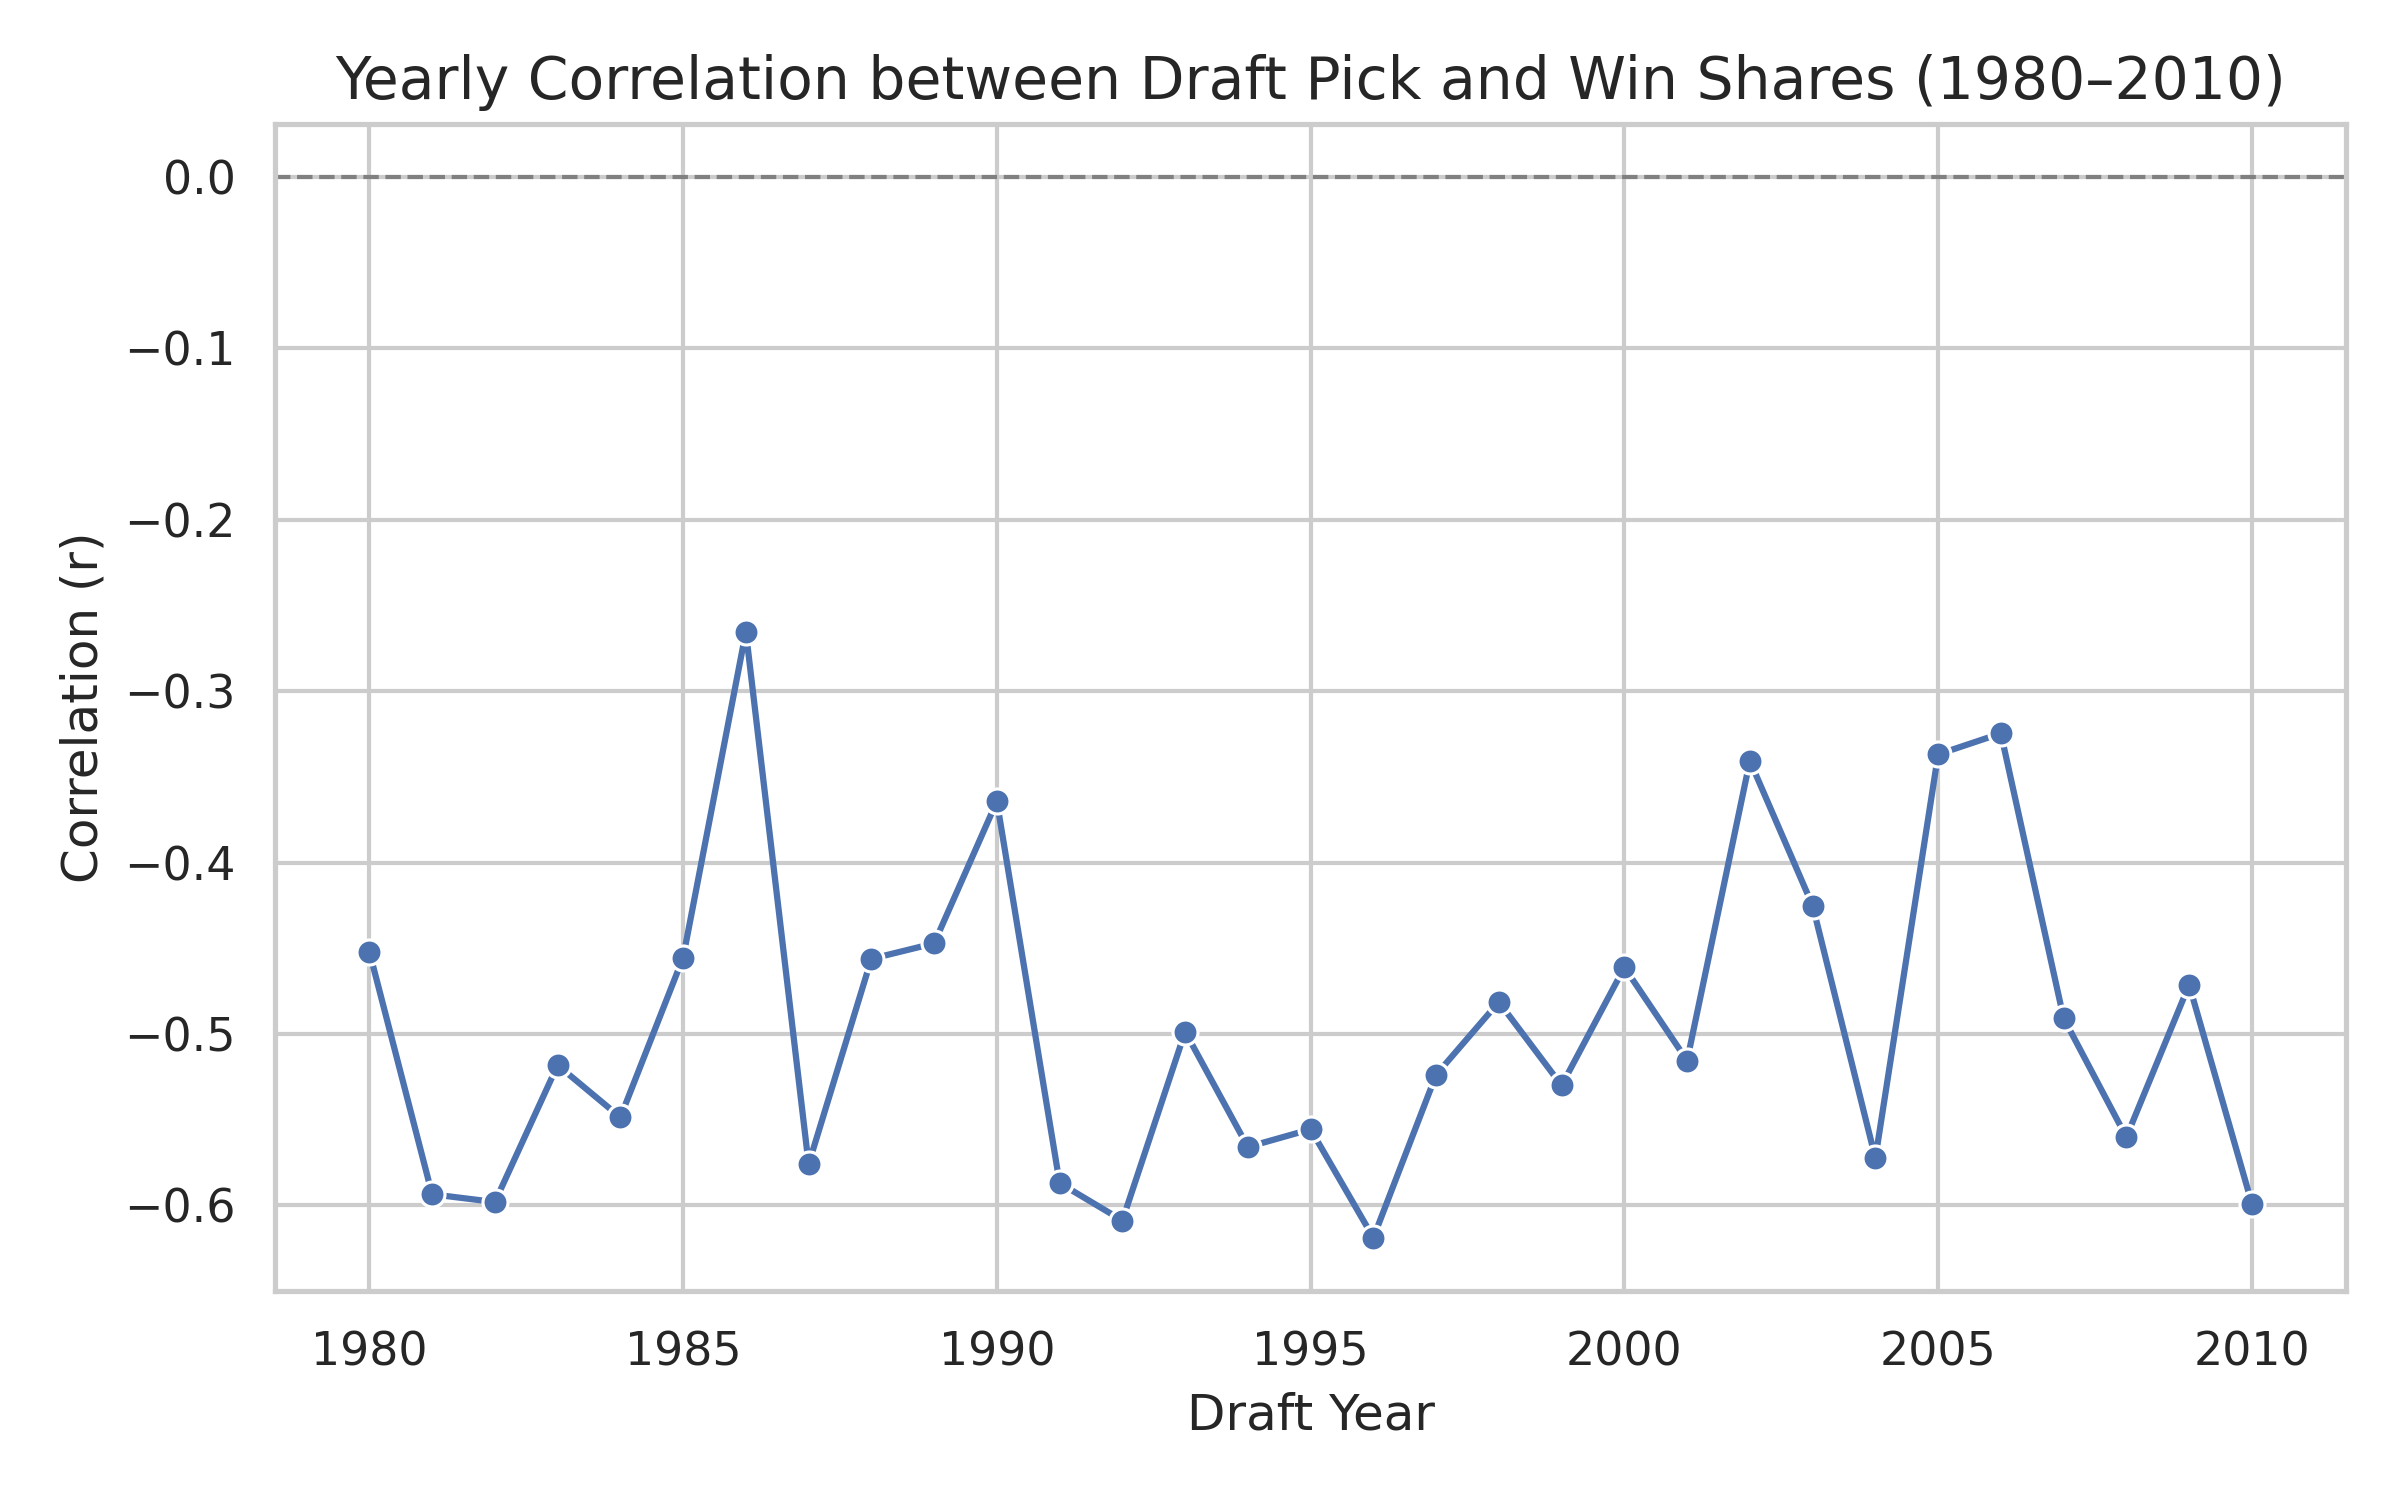
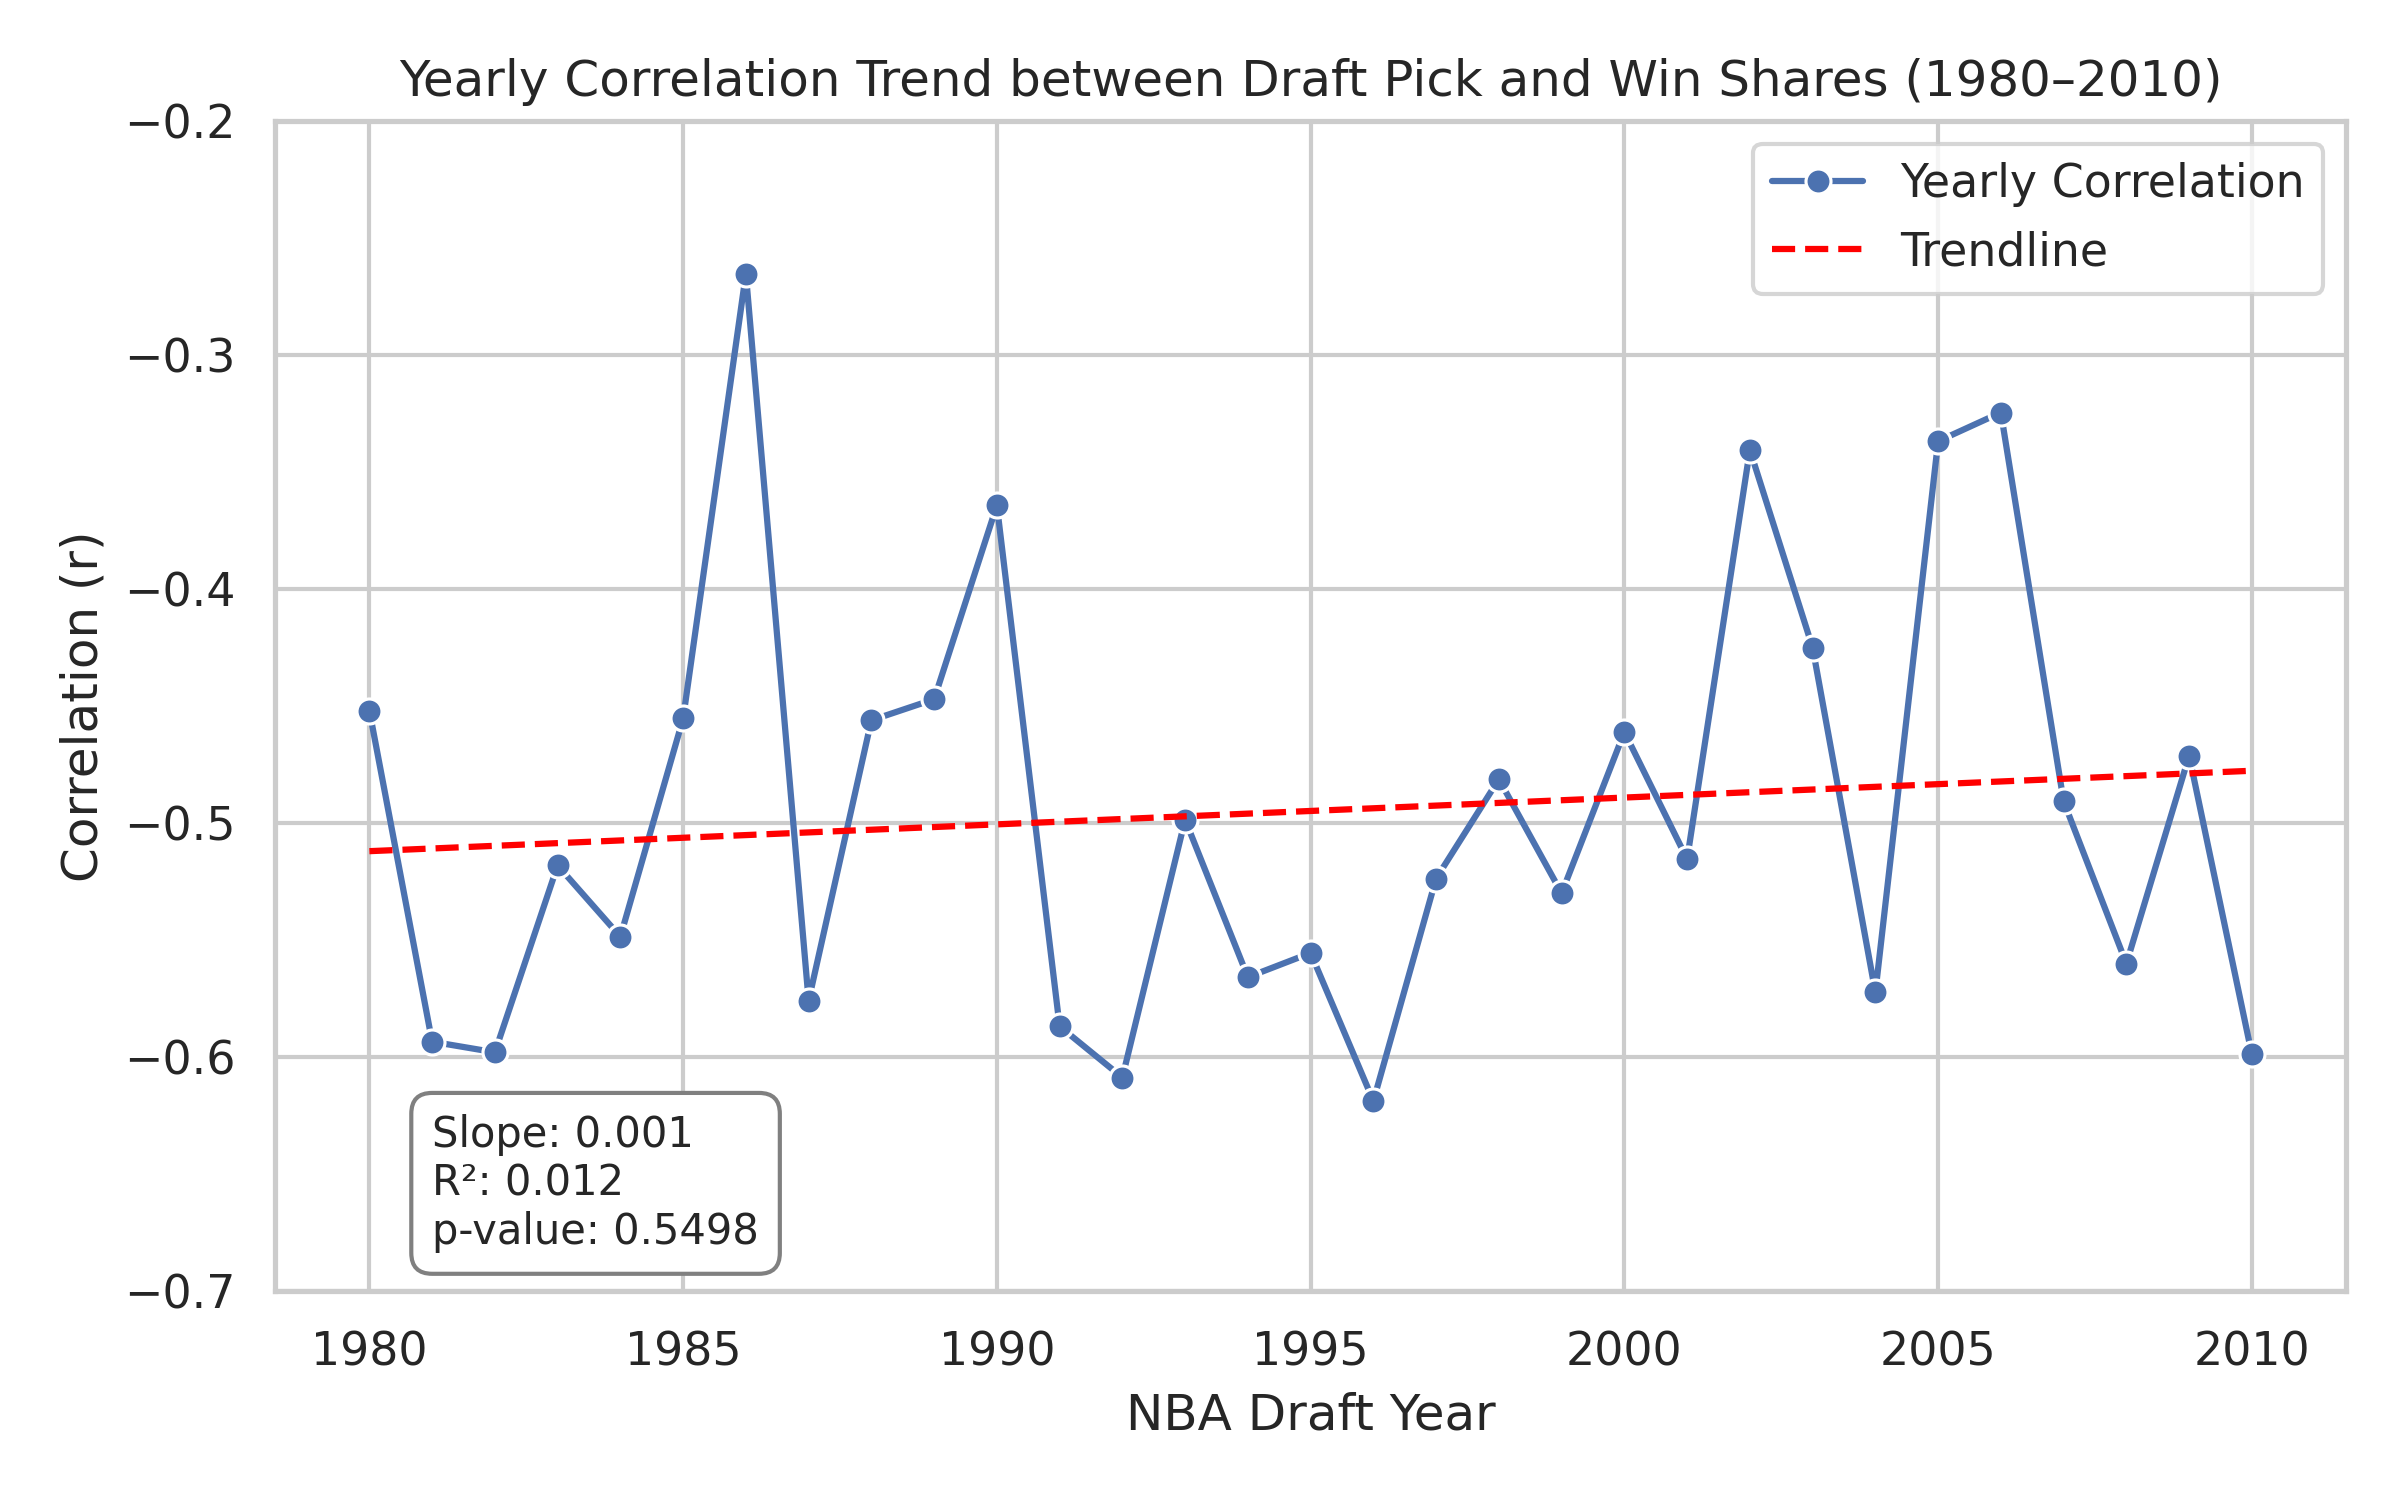
Update ws_pick_yearly.py to upgrade yearly plot

diff --git a/analysis/ws_pick_yearly.py b/analysis/ws_pick_yearly.py
@@ -3,26 +3,27 @@ import os
 import pandas as pd
 import seaborn as sns
 import matplotlib.pyplot as plt
-from scipy.stats import pearsonr
+from scipy.stats import pearsonr, linregress
+import numpy as np
 
-# 1. Folder setup
+# 1. Set up folder paths
 base_dir = os.path.dirname(os.path.abspath(__file__))
 input_path = os.path.join(base_dir, "..", "artifacts", "nba_draft_1980_2010_cleaned.csv")
 output_dir = os.path.join(base_dir, "results")
 os.makedirs(output_dir, exist_ok=True)
 
-# 2. Load data
+# 2. Load cleaned draft data
 df = pd.read_csv(input_path)
 
-# 3. Specify column names
+# 3. Specify relevant column names
 year_col = "Year"         
 pick_col = "Pk"
 ws_col = "Advanced_WS"
 
-# 4. Remove missing values
+# 4. Drop rows with missing values
 df_clean = df[[year_col, pick_col, ws_col]].dropna()
 
-# 5. Compute correlation by year
+# 5. Compute Pearson correlation by year
 corr_list = []
 for year, group in df_clean.groupby(year_col):
     if len(group) < 5:
@@ -33,17 +34,40 @@ for year, group in df_clean.groupby(year_col):
 corr_df = pd.DataFrame(corr_list)
 corr_df.to_csv(os.path.join(output_dir, "ws_pick_corr_by_year.csv"), index=False)
 
-# 6. Plot correlation trend
+# 6. Perform linear regression on yearly correlation trend
+slope, intercept, r_value, p_value, std_err = linregress(corr_df["Year"], corr_df["Correlation_r"])
+
+# 7. Plot correlation trend with regression line and stats
 sns.set(style="whitegrid")
 plt.figure(figsize=(8, 5))
-sns.lineplot(data=corr_df, x="Year", y="Correlation_r", marker="o")
-plt.title("Yearly Correlation between Draft Pick and Win Shares (1980–2010)", fontsize=14)
-plt.xlabel("Draft Year")
+
+# 8. Plot yearly correlation points
+sns.lineplot(data=corr_df, x="Year", y="Correlation_r", marker="o", label="Yearly Correlation")
+
+# 9. Plot red regression trendline
+plt.plot(corr_df["Year"], intercept + slope * corr_df["Year"], color="red", linestyle="--", label="Trendline")
+
+# 10. Fix y-axis range
+plt.ylim(-0.7, -0.2)
+
+# 11. Add title and axis labels
+plt.title("Yearly Correlation Trend between Draft Pick and Win Shares (1980–2010)", fontsize=12)
+plt.xlabel("NBA Draft Year")
 plt.ylabel("Correlation (r)")
 plt.axhline(0, color="gray", linestyle="--", linewidth=1)
+
+# 12. Add legend
+plt.legend()
+
+# 13. Display regression statistics on the plot
+stats_text = f"Slope: {slope:.3f}\nR²: {r_value**2:.3f}\np-value: {p_value:.4f}"
+plt.text(1981, -0.68, stats_text, fontsize=10, bbox=dict(facecolor='white', edgecolor='gray', boxstyle='round,pad=0.5'))
+
+# 14. Final layout and save
 plt.tight_layout()
 plt.savefig(os.path.join(output_dir, "ws_pick_corr_trend.png"), dpi=300)
 plt.close()
 
+# 15. Print completion message
 print("Yearly correlation trend analysis complete!")
 print("Results saved in 'analysis/ws_pick_corr_by_year.csv' and 'analysis/ws_pick_corr_trend.png'")
